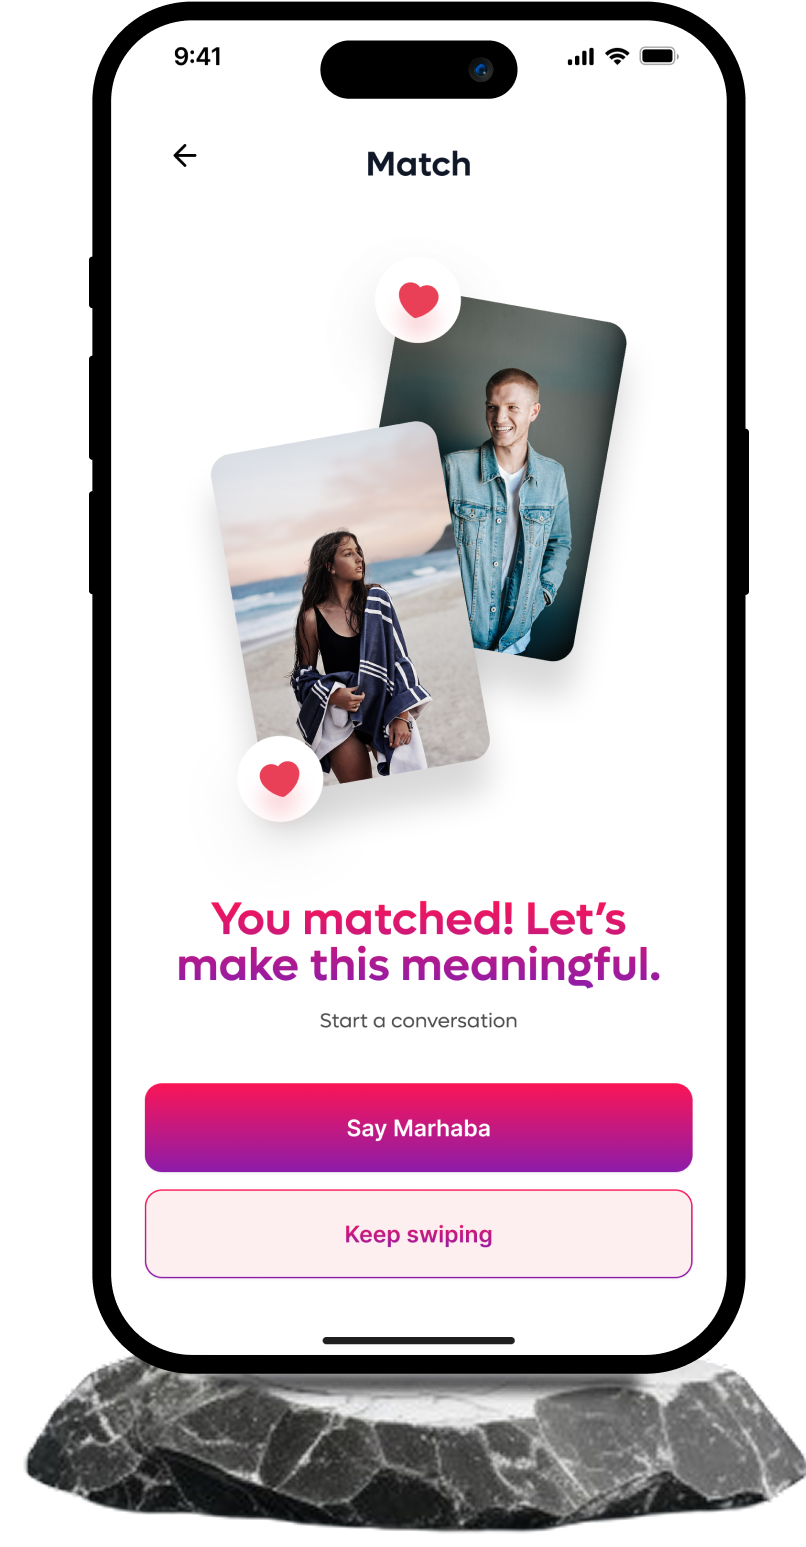
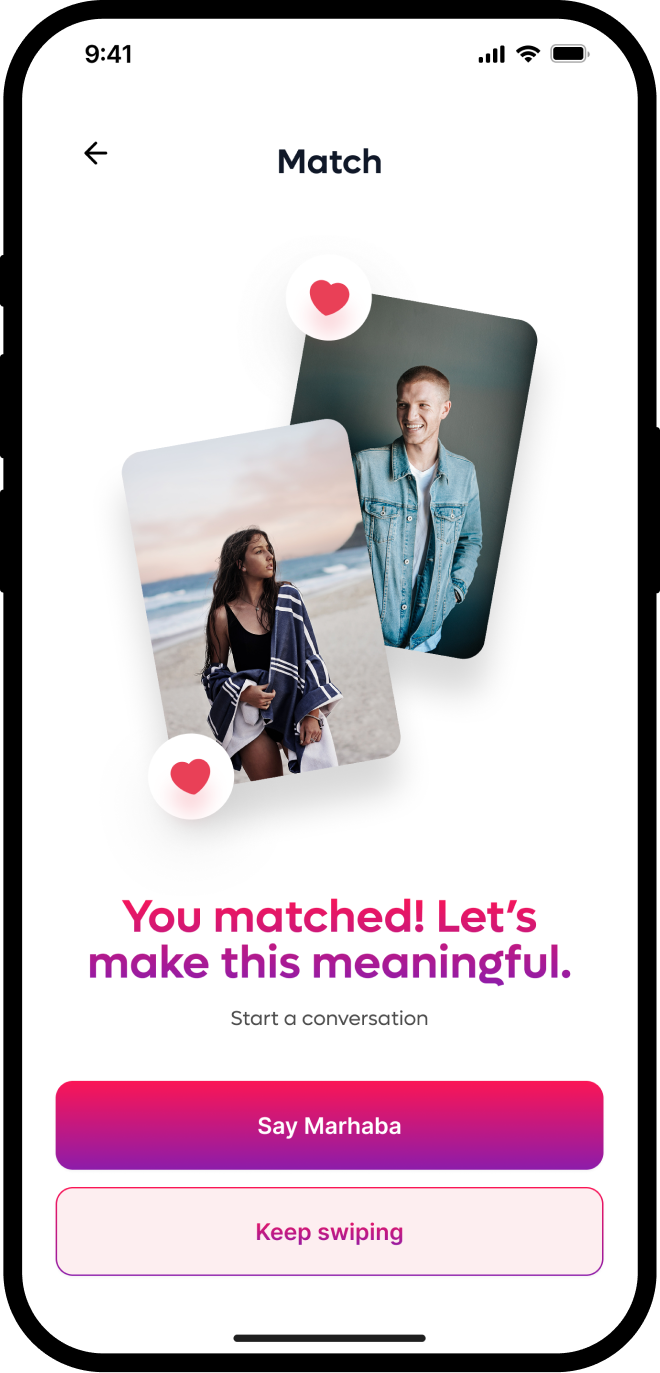
change text and mockup img

diff --git a/src/components/DynamicMockUp/DynamicMockUp.jsx b/src/components/DynamicMockUp/DynamicMockUp.jsx
@@ -30,7 +30,7 @@ export default function DynamicMockup() {
     <div
       onMouseMove={handleMouseMove}
       onMouseLeave={resetTilt}
-      className="relative flex items-center justify-center min-h-[750px] overflow-visible py-[60px]"
+      className="relative flex items-center justify-center min-h-[750px] overflow-visible"
     >
       {/* Glow Orbs */}
       <div className="absolute top-[10%] left-[20%] w-[200px] h-[200px] sm:w-52 sm:h-52 bg-pink-500/30 blur-[120px] rounded-full" />
@@ -47,7 +47,7 @@ export default function DynamicMockup() {
         <motion.img
           src={phoneImg}
           alt="App Preview"
-          className="relative z-10 w-[260px] sm:w-[320px] md:w-[380px] xl:w-[402px] drop-shadow-[0_0_25px_rgba(255,255,255,0.15)]"
+          className="relative z-10 w-[260px] sm:w-[320px] lg:w-[280px] xxl:w-[402px] drop-shadow-[0_0_25px_rgba(255,255,255,0.15)]"
           animate={floatingMotion(12, 1.5, 5)}
         />
 
@@ -85,7 +85,7 @@ export default function DynamicMockup() {
 
         {/* Floating Checkmark */}
         <motion.div
-          className="absolute xs:bottom-[10%] md:bottom-[50%] left-[77%] sm:left-[72%] md:left-[75%] xl:left-[77%] z-30 rounded-full w-[110px] sm:w-28 md:w-28 xl:w-[110px] h-[110px] sm:h-28 md:h-28 xl:h-[110px] flex items-center justify-center shadow-[0_0_20px_rgba(251,21,85,0.5)]"
+          className="absolute xs:bottom-[10%] md:bottom-[40%] left-[77%] sm:left-[72%] md:left-[75%] xl:left-[77%] z-30 rounded-full w-[110px] sm:w-28 md:w-28 xl:w-[110px] h-[110px] sm:h-28 md:h-28 xl:h-[110px] flex items-center justify-center shadow-[0_0_20px_rgba(251,21,85,0.5)]"
           animate={{ ...floatingMotion(10, 8, 4), scale: [1, 1.1, 1] }}
           style={{ background: "linear-gradient(135deg,#fb1555,#8d1caa)" }}
         >

diff --git a/src/components/MockupSection/MockupSection.jsx b/src/components/MockupSection/MockupSection.jsx
@@ -33,11 +33,19 @@ const MockupSection = () => {
         {/* Text Column */}
         <motion.div
           variants={textVariant}
-          className="flex flex-col gap-6 lg:max-w-[399px] xl:max-w-[499px]"
+          className="flex flex-col gap-6 lg:max-w-[499px] lg:mr-16"
         >
           <h2 className="font-lucida font-semibold text-center text-[42px] lg:text-left lg2:text-[50px]">
             Rooted in Culture. Dialect. Intention
           </h2>
+          <motion.p
+            className="font-normal text-xl leading-normal text-center opacity-90 lg:text-left"
+            variants={textVariant}
+          >
+            <span className="font-semibold">Galbi</span> is a culture-first
+            dating app built for people who value tradition, dialect, and
+            intentional love — not swiping games
+          </motion.p>
           <p className="font-normal text-xl leading-normal text-center lg:text-left">
             You’re not just looking for a match. You’re looking for someone who
             gets your dialect, your values, your rhythm. That’s why we built{" "}

diff --git a/src/components/HeroSection/HeroSection.jsx b/src/components/HeroSection/HeroSection.jsx
@@ -60,13 +60,6 @@ const HeroSection = () => {
             Your background is just the beginning
           </motion.h1>
           <motion.p
-            className="font-normal text-[22px] leading-[1.64] text-center mb-[30px] opacity-90"
-            variants={fadeUp}
-          >
-            Galbi is a culture-first dating app built for people who value
-            tradition, dialect, and intentional love — not swiping games
-          </motion.p>
-          <motion.p
             className="font-lufga italic font-semibold text-2xl text-center mb-[50px] opacity-90"
             variants={fadeUp}
           >
